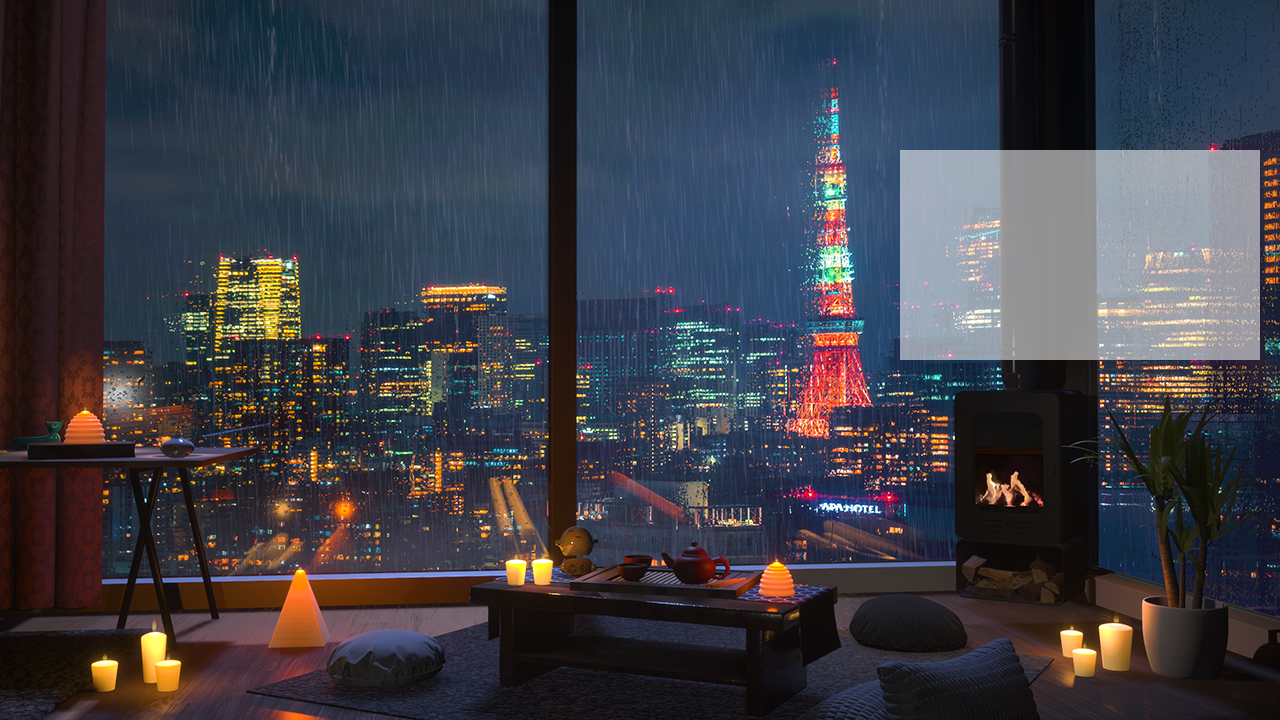
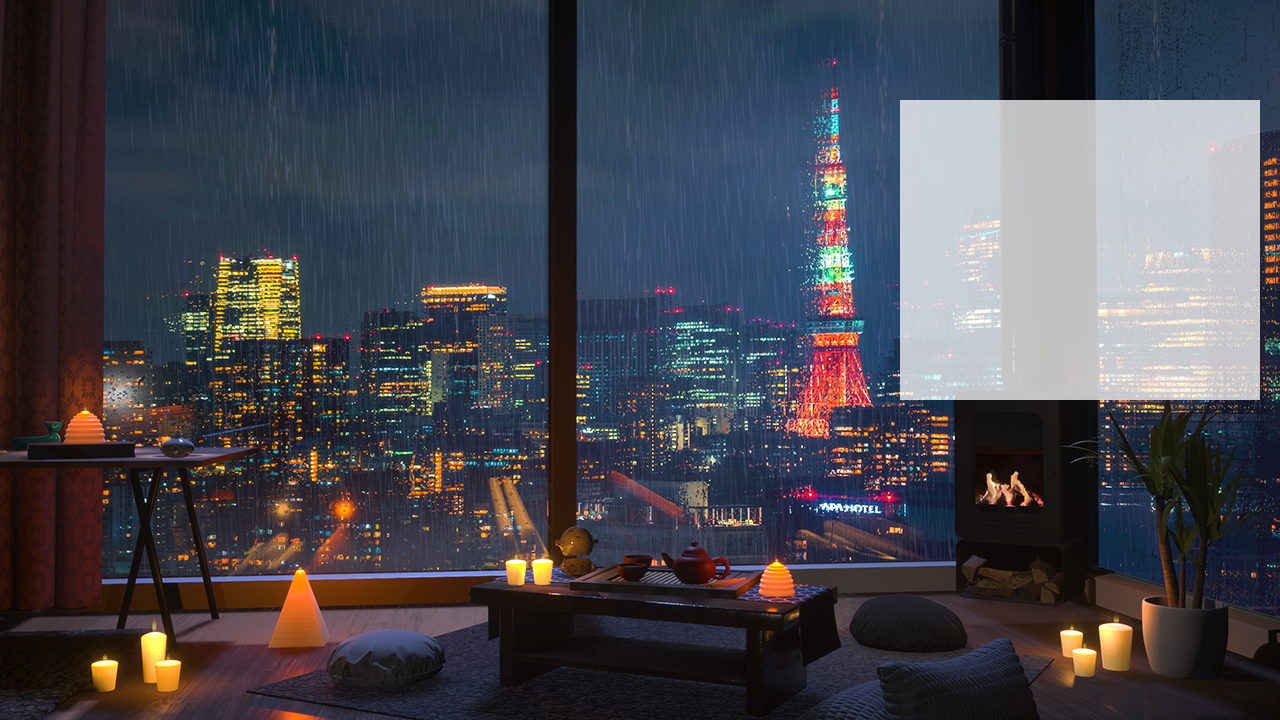
[tutorial 리팩토링] 1. tutorialbackground 수정 2. naming convention 3. solarlint 리팩토링

Changed region(s): [[0.6875, 0.1222, 1.0, 0.5806]]

diff --git a/src/main/java/kr/ac/jbnu/se/tetris/views/pages/TutorialPage.java b/src/main/java/kr/ac/jbnu/se/tetris/views/pages/TutorialPage.java
@@ -2,9 +2,7 @@ package kr.ac.jbnu.se.tetris.views.pages;
 
 import kr.ac.jbnu.se.tetris.controllers.*;
 import kr.ac.jbnu.se.tetris.models.KeyInput;
-import kr.ac.jbnu.se.tetris.models.MainPageModel;
 import kr.ac.jbnu.se.tetris.models.Member;
-import kr.ac.jbnu.se.tetris.models.TutorialModel;
 import kr.ac.jbnu.se.tetris.views.PlayerPage;
 import lombok.Getter;
 
@@ -23,9 +21,10 @@ public class TutorialPage extends PlayerPage {
     private final JButton resetButton;
     private final JLabel imageLabel;
     JLabel finishLabel;
+    static ImageIcon srsImg;
 
     @Getter
-    static ImageIcon SRSImg, tutorialBackgroundImg;
+    static ImageIcon tutorialBackgroundImg;
 
 
     public TutorialPage(Member member, KeyInput p1Key){
@@ -42,15 +41,12 @@ public class TutorialPage extends PlayerPage {
         this.resetButton = new JButton("다시하기");
 
         tutorialStep.setFont(new Font("SensSerif", Font.BOLD, 20));
-        /*Color color = new Color(0x77FFFFFF, true);
-        tutorialStep.setOpaque(true);
-        tutorialStep.setBackground(color);*/
         tutorialStep.setForeground(Color.black);
 
-        this.SRSImg = new ImageIcon("source/image/튜토리얼 SRS 안내.png");
+        srsImg = new ImageIcon("source/image/튜토리얼 SRS 안내.png");
         tutorialBackgroundImg = new ImageIcon("source/image/background/tutorialbackground.png"); // 튜토리얼 배경 추가
-        this.imageLabel = new JLabel(SRSImg); // 5번째 스텝에서 SRS하려면 블럭 어떻게 쌓아야 하는지 이미지 보여주기
-        imageLabel.setPreferredSize(new Dimension(SRSImg.getIconWidth(), SRSImg.getIconWidth()));
+        this.imageLabel = new JLabel(srsImg); // 5번째 스텝에서 SRS하려면 블럭 어떻게 쌓아야 하는지 이미지 보여주기
+        imageLabel.setPreferredSize(new Dimension(srsImg.getIconWidth(), srsImg.getIconWidth()));
 
         this.board = new TutorialBoardController(this, p1Key);
         this.nextBlockPanelController = new NextBlockPanelController(this);
@@ -59,7 +55,7 @@ public class TutorialPage extends PlayerPage {
 
         board.setBounds(515, 110, BOARD_SIZE_WIDTH, BOARD_SIZE_HEIGHT);
         nextBlockPanelController.setBounds(415, 110, 100, 500);
-        tutorialStep.setBounds(900, 150, 360, 210);
+        tutorialStep.setBounds(910, 100, 360, 300);
         skipButton.setBounds(900, 500,120, 50);
         imageLabel.setBounds(100, 300, 300, 300);
         resetButton.setBounds(900, 560, 120, 50);
@@ -71,8 +67,8 @@ public class TutorialPage extends PlayerPage {
         tutorialPageFrame.add(imageLabel);
         tutorialPageFrame.add(resetButton);
 
-        skipbuttonAction();
-        resetbuttonAction();
+        skipButtonAction();
+        resetButtonAction();
         resetButton.setFocusable(false); // 버튼 선택 시 생기는 테두리 활성화
 
         //튜토리얼 배경 그리기
@@ -100,16 +96,16 @@ public class TutorialPage extends PlayerPage {
 
     }
 
-    public void skipbuttonAction(){
+    public void skipButtonAction(){
         skipButton.addActionListener(e -> tutorialPageFrame.dispose());
     }
-    public void finishbuttonAction(){ //튜토리얼을 끝내면 화면 제거
+    public void finishButtonAction(){ //튜토리얼을 끝내면 화면 제거
         finishButton.addActionListener(e -> {
             tutorialEndFrame.dispose();
             tutorialPageFrame.dispose();
         });
     }
-    public void resetbuttonAction(){  //튜토리얼을 다시 시작할 때 수행할 작업
+    public void resetButtonAction(){  //튜토리얼을 다시 시작할 때 수행할 작업
         resetButton.addActionListener(e -> {
             TutorialBoardController tutorialBoardController = (TutorialBoardController) board;
             tutorialBoardController.resetTutorial();
@@ -132,6 +128,6 @@ public class TutorialPage extends PlayerPage {
         tutorialEndFrame.setVisible(true);
         tutorialEndFrame.add(finishButton);
         tutorialEndFrame.add(finishLabel);
-        finishbuttonAction();
+        finishButtonAction();
     }
 }

diff --git a/src/main/java/kr/ac/jbnu/se/tetris/controllers/TutorialBoardController.java b/src/main/java/kr/ac/jbnu/se/tetris/controllers/TutorialBoardController.java
@@ -10,7 +10,7 @@ import static kr.ac.jbnu.se.tetris.models.TutorialModel.*;
 
 public class TutorialBoardController extends BoardController {
     @Getter
-    private final TutorialModel tutorialModel;
+    private final transient TutorialModel tutorialModel;
 
     private final TutorialPage tutorialPage;
     private final Timer stepTimer;
@@ -27,7 +27,7 @@ public class TutorialBoardController extends BoardController {
         gameTimerController = new GameTimerController(this);
 
         this.statusBar = parent.getStatusBar();
-        this.pieceController = new TutorialPieaceController(this);
+        this.pieceController = new TutorialPieceController(this);
         this.boardModel.setLoopDelay(600);  //루프 딜레이 설정 400
 
         this.timer = new Timer(boardModel.getLoopDelay(), this);
@@ -96,15 +96,15 @@ public class TutorialBoardController extends BoardController {
 
     //현재 튜토리얼 단계에 대한 텍스트를 보여줌
     private void displayCurrentStep() {
-        if (tutorialModel.getCurrentStepIndex() >= 0 && tutorialModel.getCurrentStepIndex() < tutorialSteps.length) {
-            String currentStepText = tutorialSteps[tutorialModel.getCurrentStepIndex()];
+        if (tutorialModel.getCurrentStepIndex() >= 0 && tutorialModel.getCurrentStepIndex() < getTutorialSteps().length) {
+            String currentStepText = getTutorialSteps()[tutorialModel.getCurrentStepIndex()];
             tutorialPage.getTutorialStep().setText(currentStepText);
         }
     }
 
     //튜토리얼의 다음 단계로 넘어감
     public void moveToNextStep() {
-        if (tutorialModel.getCurrentStepIndex() < tutorialSteps.length - 1) {
+        if (tutorialModel.getCurrentStepIndex() < getTutorialSteps().length - 1) {
             tutorialModel.plusCurrnetStepIndex();
             displayCurrentStep(); // 다음 튜토리얼을 게임 보드에 표시
         }
@@ -119,8 +119,7 @@ public class TutorialBoardController extends BoardController {
 
     //SRS 수행에 필요한 배경블럭 그리기
     private void drawBackgroundblock() {
-        for (int i = 0; i < BoardModel.getBoardHeight() * BoardModel.getBoardWidth(); ++i)
-            getBoardModel().setboard(i, ShapeData.Tetrominoes.NoShape);
+        clearBoard();
         for (int x = 3; x < BoardModel.getBoardWidth(); x++) {
             for (int y = 0; y < 12; y++) {
                 getBoardModel().setboard(x + y * BoardModel.getBoardWidth(), ShapeData.Tetrominoes.TutorialBackground);
@@ -133,8 +132,8 @@ public class TutorialBoardController extends BoardController {
      */
     public void resetTutorial(){
         clearBoard();
-        TutorialPieaceController tutorialPieaceController = (TutorialPieaceController) pieceController; //타입캐스팅
-        tutorialPieaceController.resetBrickQueue();
+        TutorialPieceController tutorialPieceController = (TutorialPieceController) pieceController; //타입캐스팅
+        tutorialPieceController.resetBrickQueue();
         drawBackgroundblock();
         pieceController.newPiece();
     }

diff --git a/src/main/java/kr/ac/jbnu/se/tetris/models/TutorialModel.java b/src/main/java/kr/ac/jbnu/se/tetris/models/TutorialModel.java
@@ -6,8 +6,9 @@ import lombok.Getter;
 public class TutorialModel extends BoardModel{
     @Getter
     private int currentStepIndex = 0; //현재 튜토리얼 스텝
-    private final int currentBrickIndex; // 현재 블럭 인덱스
-    public static final String[] tutorialSteps = {
+    private final int initalBrickIndex; // 현재 블럭 인덱스
+    @Getter
+    protected static final String[] tutorialSteps = {
             "<html># Step 1: 테트리스 규칙<br>- 테트리스의 목표는 아래로 떨어지는 블럭을 사용해 가로 한 줄을 완성하는 것입니다.<br>- 한 줄을 채우려고 노력하면서 버티는 게임입니다.<br>- 튜토리얼을 건너뛰려면 스킵 버튼을 눌러주세요</html>",
             "<html># Step 2: 블럭 이동하기<br>- 블럭을 좌우로 움직이려면 A 키(왼쪽)와, D 키(오른쪽)를 사용하세요.</html>",
             "<html># Step 3: 블럭 회전하기<br>- 블럭을 회전하려면 Q 키(반시계 방향), E 키(시계 방향)를 누르세요.</html>",
@@ -16,7 +17,7 @@ public class TutorialModel extends BoardModel{
             "<html># 잘하셨습니다!<br>이제 테트리스를 더 재미있게 즐길 수 있을 것입니다.<br>메인화면으로 이동하시려면 스킵을 눌러주세요"
     };
     public TutorialModel(){
-        currentBrickIndex = 0;
+        initalBrickIndex = 0;
     }
 
     public void plusCurrnetStepIndex(){

diff --git a/src/main/java/kr/ac/jbnu/se/tetris/controllers/TutorialPieceController.java b/src/main/java/kr/ac/jbnu/se/tetris/controllers/TutorialPieceController.java
@@ -4,7 +4,7 @@ import kr.ac.jbnu.se.tetris.models.TutorialQueue;
 import lombok.Getter;
 
 @Getter
-public class TutorialPieaceController extends PieceController {
+public class TutorialPieceController extends PieceController {
     TutorialBoardController tutorialBoardController;
 
     /**
@@ -12,7 +12,7 @@ public class TutorialPieaceController extends PieceController {
      *
      * @param boardController 게임이 진행되는 boardController
      */
-    public TutorialPieaceController(TutorialBoardController boardController) {
+    public TutorialPieceController(TutorialBoardController boardController) {
         tutorialBoardController = boardController;
         this.boardController = tutorialBoardController;
         this.currentPiece = new Piece();

diff --git a/src/main/java/kr/ac/jbnu/se/tetris/models/TutorialQueue.java b/src/main/java/kr/ac/jbnu/se/tetris/models/TutorialQueue.java
@@ -1,14 +1,14 @@
 package kr.ac.jbnu.se.tetris.models;
 
-import kr.ac.jbnu.se.tetris.controllers.TutorialPieaceController;
+import kr.ac.jbnu.se.tetris.controllers.TutorialPieceController;
 
 import java.util.Random;
 
 public class TutorialQueue extends BrickQueueManager {
-    private final TutorialPieaceController controller;
-    public TutorialQueue(TutorialPieaceController tutorialPieaceController) {
+
+    public TutorialQueue(TutorialPieceController tutorialPieceController) {
         super(new Random(1));
-        controller = tutorialPieaceController;
+        //final TutorialPieceController controller = tutorialPieceController;
         brickQueue = new ShapeData.Tetrominoes[11];
         brickQueueIndex = 0;
         brickQueueSize = 11;
